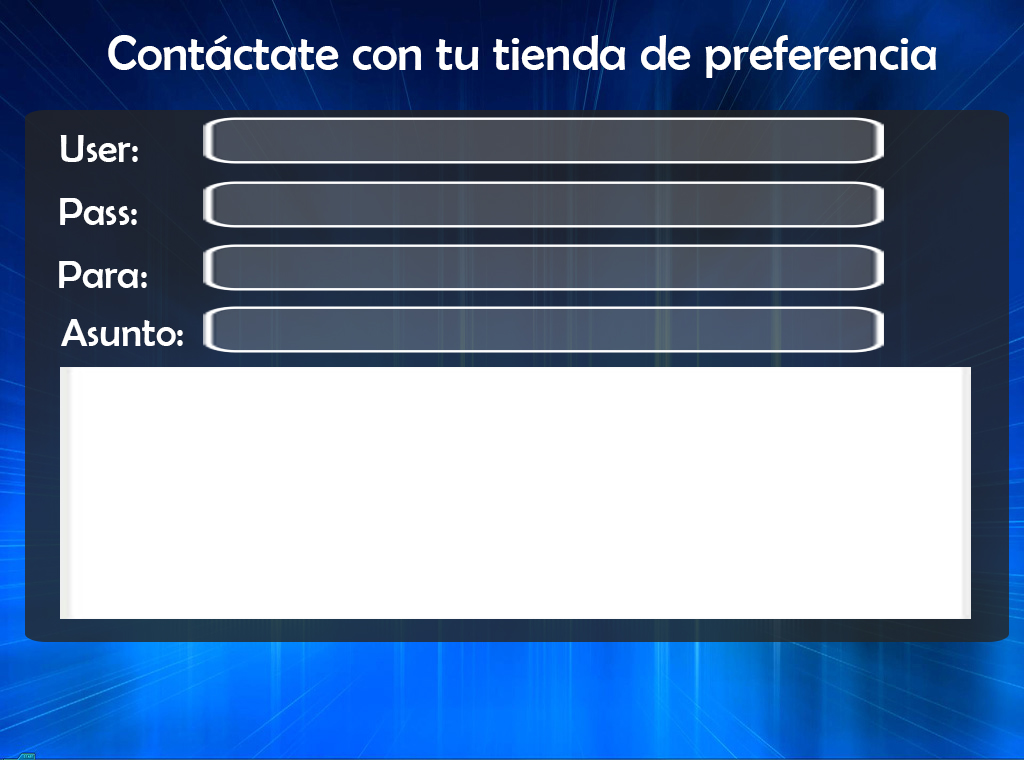
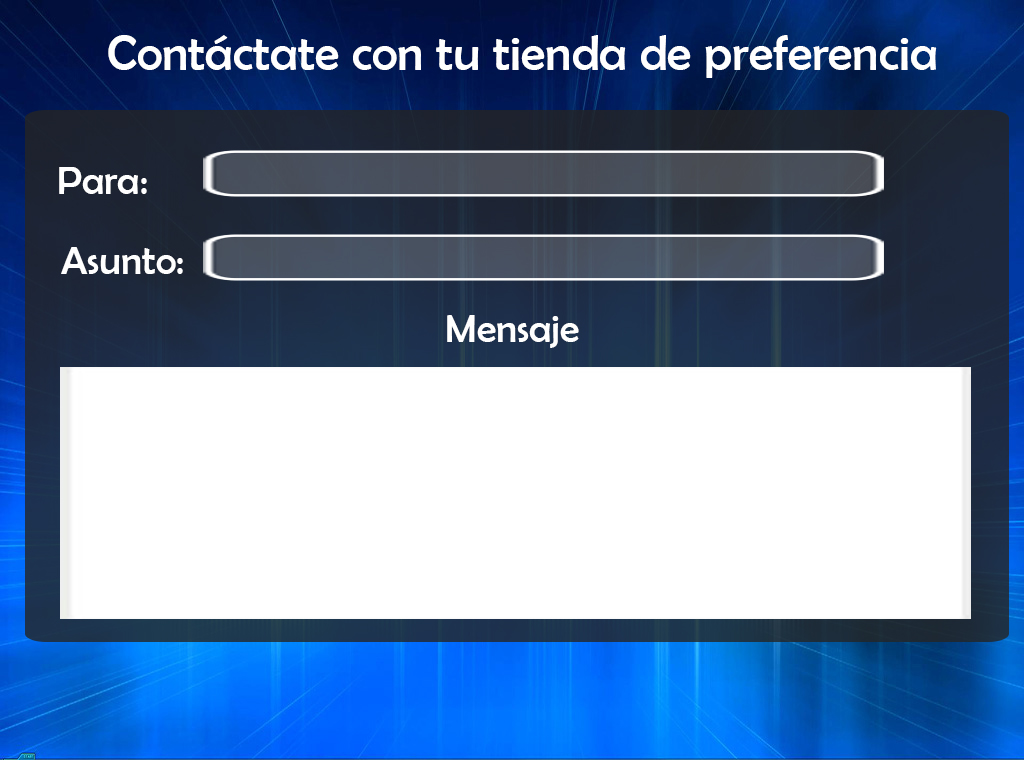
corregido el Modulo Contacto Tienda

diff --git a/src/negocio/EnviarEmailConAdjunto.java b/src/negocio/EnviarEmailConAdjunto.java
@@ -16,7 +16,7 @@ import javax.mail.internet.MimeMultipart;
 
 public class EnviarEmailConAdjunto {
 	
-	public static void enviarEmail(String user, String pass, String dest, String asunto, String mensaje, String rutaReporte, String nombreReporte) throws MessagingException{
+	public static void enviarEmail(String dest, String asunto, String mensaje, String rutaReporte) throws MessagingException{
 		Properties props = new Properties();
 
 		// Nombre del host de correo, es smtp.gmail.com
@@ -29,7 +29,7 @@ public class EnviarEmailConAdjunto {
 		props.setProperty("mail.smtp.port","587");
 
 		// Nombre del usuario
-		props.setProperty("mail.smtp.user", user);
+		props.setProperty("mail.smtp.user", "rantiypc@gmail.com");
 
 		// Si requiere o no usuario y password para conectarse.
 		props.setProperty("mail.smtp.auth", "true");
@@ -54,7 +54,7 @@ public class EnviarEmailConAdjunto {
 		MimeMessage message = new MimeMessage(session);
 
 		// Se rellena el From
-		message.setFrom(new InternetAddress(user));
+		message.setFrom(new InternetAddress("rantiypc@gmail.com"));
 
 		// Se rellenan los destinatarios
 		message.addRecipient(Message.RecipientType.TO, new InternetAddress(dest));
@@ -66,7 +66,7 @@ public class EnviarEmailConAdjunto {
 		message.setContent(multiParte);
 		
 		Transport t = session.getTransport("smtp");
-		t.connect(user,pass);
+		t.connect("rantiypc@gmail.com","rantiypc123");
 		t.sendMessage(message,message.getAllRecipients());
 		t.close();
 	}
